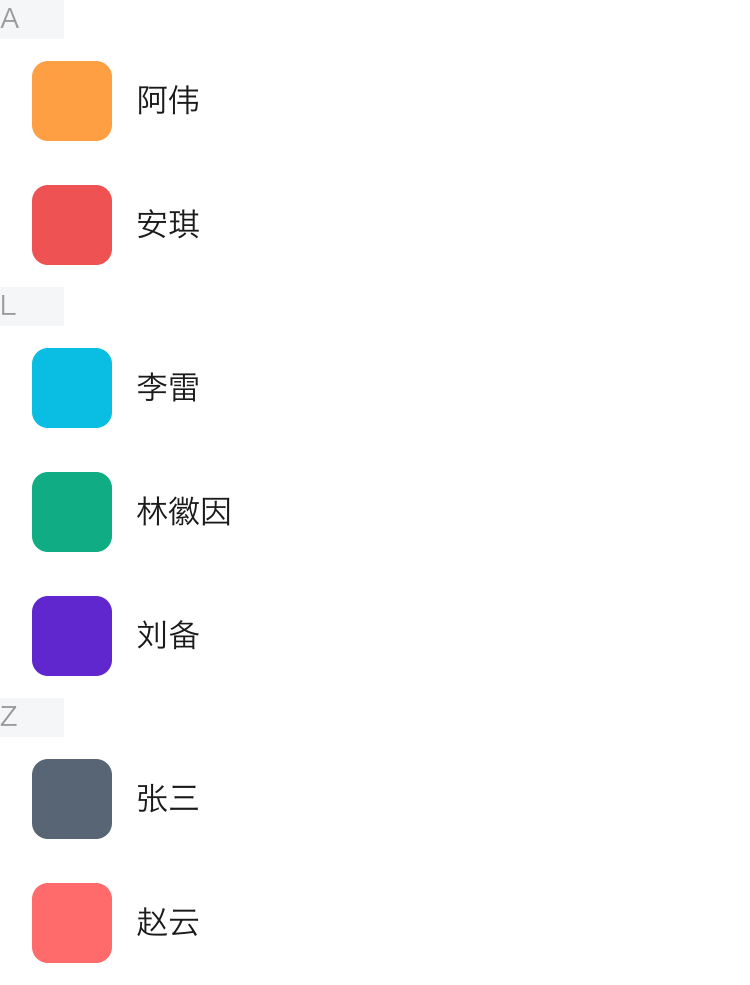
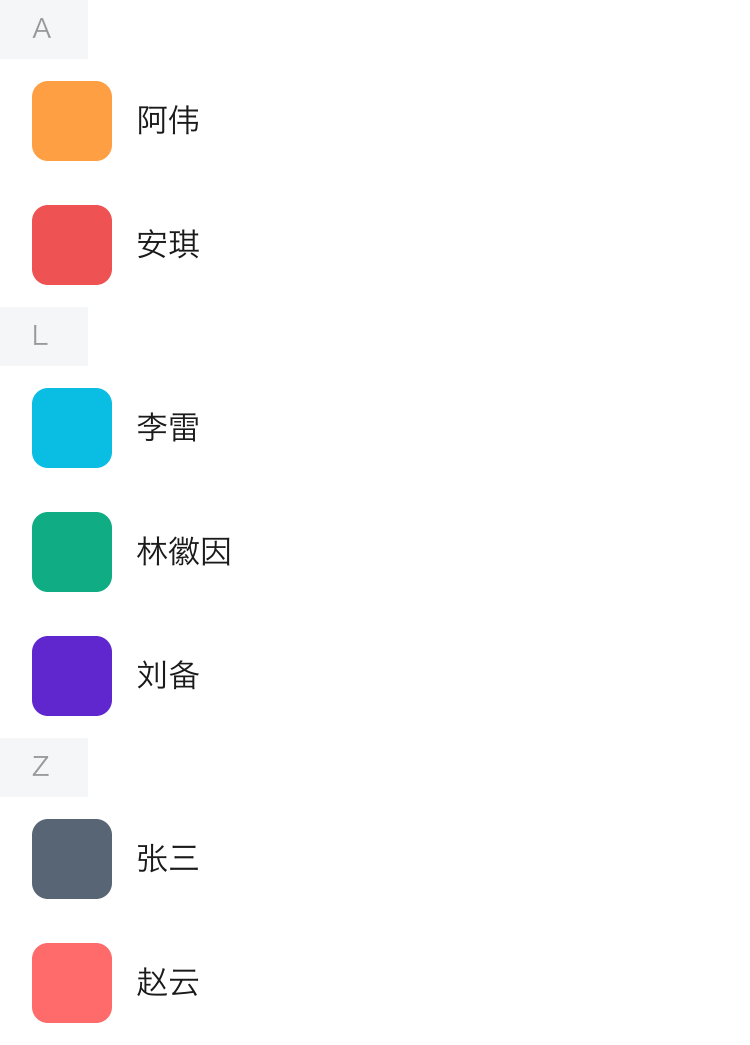
优化代码，优化UI渲染

diff --git a/src/renderer/components/text.rs b/src/renderer/components/text.rs
@@ -47,21 +47,27 @@ impl TextComponent {
         // 设置 flex-shrink 允许收缩
         ts.flex_shrink = 1.0;
         
-        // 设置高度为文本行数 * 行高（而不是 min_size，确保 taffy 正确计算父容器高度）
-        // 同时设置 min_size 作为保底
+        // 文本自身内边距：清空 taffy padding，改为把 padding 计入盒子尺寸，
+        // 绘制时再把文字画进内容区（修复带 padding 的 <text>，如标签/徽章，文字溢出背景）
+        let pad_t = ns.padding_top * sf;
+        let pad_b = ns.padding_bottom * sf;
+        let pad_l = ns.padding_left * sf;
+        let pad_r = ns.padding_right * sf;
+        ts.padding = Rect::zero();
+        
+        // 盒子高度 = 文本行高 + 上下内边距
         let text_height = actual_line_height * min_lines as f32;
-        ts.size.height = length(text_height);
-        ts.min_size.height = length(text_height);
+        ts.size.height = length(text_height + pad_t + pad_b);
+        ts.min_size.height = length(text_height + pad_t + pad_b);
         
         // 如果 CSS 没有设置宽度，根据 display / text-align 决定宽度
         // display:block 或 text-align 为 center/right 时使用 100%（便于水平对齐），
-        // 否则使用估算的文本宽度
+        // 否则使用估算的文本宽度 + 左右内边距
         if matches!(ts.size.width, Dimension::Auto) {
             if ns.is_block || matches!(ns.text_align, TextAlign::Center | TextAlign::Right) {
                 ts.size.width = Dimension::Percent(1.0);
             } else {
-                // 使用估算的文本宽度
-                ts.size.width = length(max_line_width);
+                ts.size.width = length(max_line_width + pad_l + pad_r);
             }
         }
         
@@ -93,8 +99,18 @@ impl TextComponent {
         let line_height = node.style.line_height.map(|lh| lh * sf).unwrap_or(size * 1.5);
         let letter_spacing = node.style.letter_spacing * sf;
         
-        // 绘制文本自身的背景（<text> 也可有 background-color / 圆角）
+        // 绘制文本自身的背景（<text> 也可有 background-color / 圆角），覆盖整个盒子
         draw_background(canvas, &node.style, x, y, w, h);
+        
+        // 内容区 = 盒子扣除自身 padding，文字在内容区内定位
+        let pl = node.style.padding_left * sf;
+        let pr = node.style.padding_right * sf;
+        let pt = node.style.padding_top * sf;
+        let pb = node.style.padding_bottom * sf;
+        let cx = x + pl;
+        let cy = y + pt;
+        let cw = (w - pl - pr).max(0.0);
+        let chh = (h - pt - pb).max(0.0);
         
         if let Some(tr) = text_renderer {
             let paint = Paint::new().with_color(color).with_style(PaintStyle::Fill);
@@ -105,8 +121,8 @@ impl TextComponent {
             
             let text = &node.text;
             let text_w = tr.measure_text_with_spacing(text, size, letter_spacing);
-            // 是否需要多行：含换行符，或允许换行且超出宽度
-            let multiline = text.contains('\n') || (should_wrap && w > 0.0 && text_w > w);
+            // 是否需要多行：含换行符，或允许换行且超出内容宽度
+            let multiline = text.contains('\n') || (should_wrap && cw > 0.0 && text_w > cw);
             
             // 粗体：字体无独立 bold 字面时用轻微偏移二次描绘模拟（faux-bold）
             let is_bold = matches!(
@@ -116,33 +132,33 @@ impl TextComponent {
             let bold_dx = if is_bold { 0.7 * sf } else { 0.0 };
             
             if multiline {
-                // 多行：顶部对齐换行绘制
+                // 多行：顶部对齐换行绘制（在内容区内）
                 draw_text_wrapped_advanced(
-                    canvas, tr, text, x, y + size, size, w, h,
+                    canvas, tr, text, cx, cy + size, size, cw, chh,
                     line_height, letter_spacing, &node.style, &paint
                 );
                 if is_bold {
                     draw_text_wrapped_advanced(
-                        canvas, tr, text, x + bold_dx, y + size, size, w, h,
+                        canvas, tr, text, cx + bold_dx, cy + size, size, cw, chh,
                         line_height, letter_spacing, &node.style, &paint
                     );
                 }
             } else {
-                // 单行：在盒内垂直居中（基线 ≈ 盒中心 + 0.34*字号）
-                let baseline = y + h / 2.0 + size * 0.34;
-                // 水平对齐：text-align center/right 时在盒内做水平偏移
-                let align_dx = if w > text_w {
+                // 单行：在内容区内垂直居中（基线 ≈ 内容区中心 + 0.34*字号）
+                let baseline = cy + chh / 2.0 + size * 0.34;
+                // 水平对齐：text-align center/right 时在内容区内做水平偏移
+                let align_dx = if cw > text_w {
                     match node.style.text_align {
-                        TextAlign::Center => (w - text_w) / 2.0,
-                        TextAlign::Right => w - text_w,
+                        TextAlign::Center => (cw - text_w) / 2.0,
+                        TextAlign::Right => cw - text_w,
                         _ => 0.0,
                     }
                 } else { 0.0 };
-                let ax = x + align_dx;
-                if w > 0.0 && use_ellipsis && text_w > w {
-                    draw_text_with_ellipsis(canvas, tr, text, x, baseline, size, w, letter_spacing, &paint);
+                let ax = cx + align_dx;
+                if cw > 0.0 && use_ellipsis && text_w > cw {
+                    draw_text_with_ellipsis(canvas, tr, text, cx, baseline, size, cw, letter_spacing, &paint);
                     if is_bold {
-                        draw_text_with_ellipsis(canvas, tr, text, x + bold_dx, baseline, size, w, letter_spacing, &paint);
+                        draw_text_with_ellipsis(canvas, tr, text, cx + bold_dx, baseline, size, cw, letter_spacing, &paint);
                     }
                 } else {
                     tr.draw_text_with_spacing(canvas, text, ax, baseline, size, letter_spacing, &paint);

diff --git a/src/renderer/components/base.rs b/src/renderer/components/base.rs
@@ -34,6 +34,11 @@ pub struct NodeStyle {
     pub font_size: f32,
     pub font_weight: FontWeight,
     pub opacity: f32,
+    /// 元素自身内边距（逻辑像素），供文本组件在内容区内定位文字
+    pub padding_top: f32,
+    pub padding_right: f32,
+    pub padding_bottom: f32,
+    pub padding_left: f32,
     pub text_align: TextAlign,
     pub text_decoration: TextDecoration,
     pub line_height: Option<f32>,
@@ -449,11 +454,12 @@ fn apply_style_property(
                     top: length(t * sf), right: length(r * sf),
                     bottom: length(b * sf), left: length(l * sf),
                 };
+                ns.padding_top = t; ns.padding_right = r; ns.padding_bottom = b; ns.padding_left = l;
             }
-            "padding-top" => if let Some(v) = to_px(value, ctx.screen_width, ctx.screen_height) { ts.padding.top = length(v * sf); }
-            "padding-right" => if let Some(v) = to_px(value, ctx.screen_width, ctx.screen_height) { ts.padding.right = length(v * sf); }
-            "padding-bottom" => if let Some(v) = to_px(value, ctx.screen_width, ctx.screen_height) { ts.padding.bottom = length(v * sf); }
-            "padding-left" => if let Some(v) = to_px(value, ctx.screen_width, ctx.screen_height) { ts.padding.left = length(v * sf); }
+            "padding-top" => if let Some(v) = to_px(value, ctx.screen_width, ctx.screen_height) { ts.padding.top = length(v * sf); ns.padding_top = v; }
+            "padding-right" => if let Some(v) = to_px(value, ctx.screen_width, ctx.screen_height) { ts.padding.right = length(v * sf); ns.padding_right = v; }
+            "padding-bottom" => if let Some(v) = to_px(value, ctx.screen_width, ctx.screen_height) { ts.padding.bottom = length(v * sf); ns.padding_bottom = v; }
+            "padding-left" => if let Some(v) = to_px(value, ctx.screen_width, ctx.screen_height) { ts.padding.left = length(v * sf); ns.padding_left = v; }
             "margin" => {
                 if matches!(value, StyleValue::Auto) {
                     // margin: auto -> 居中
